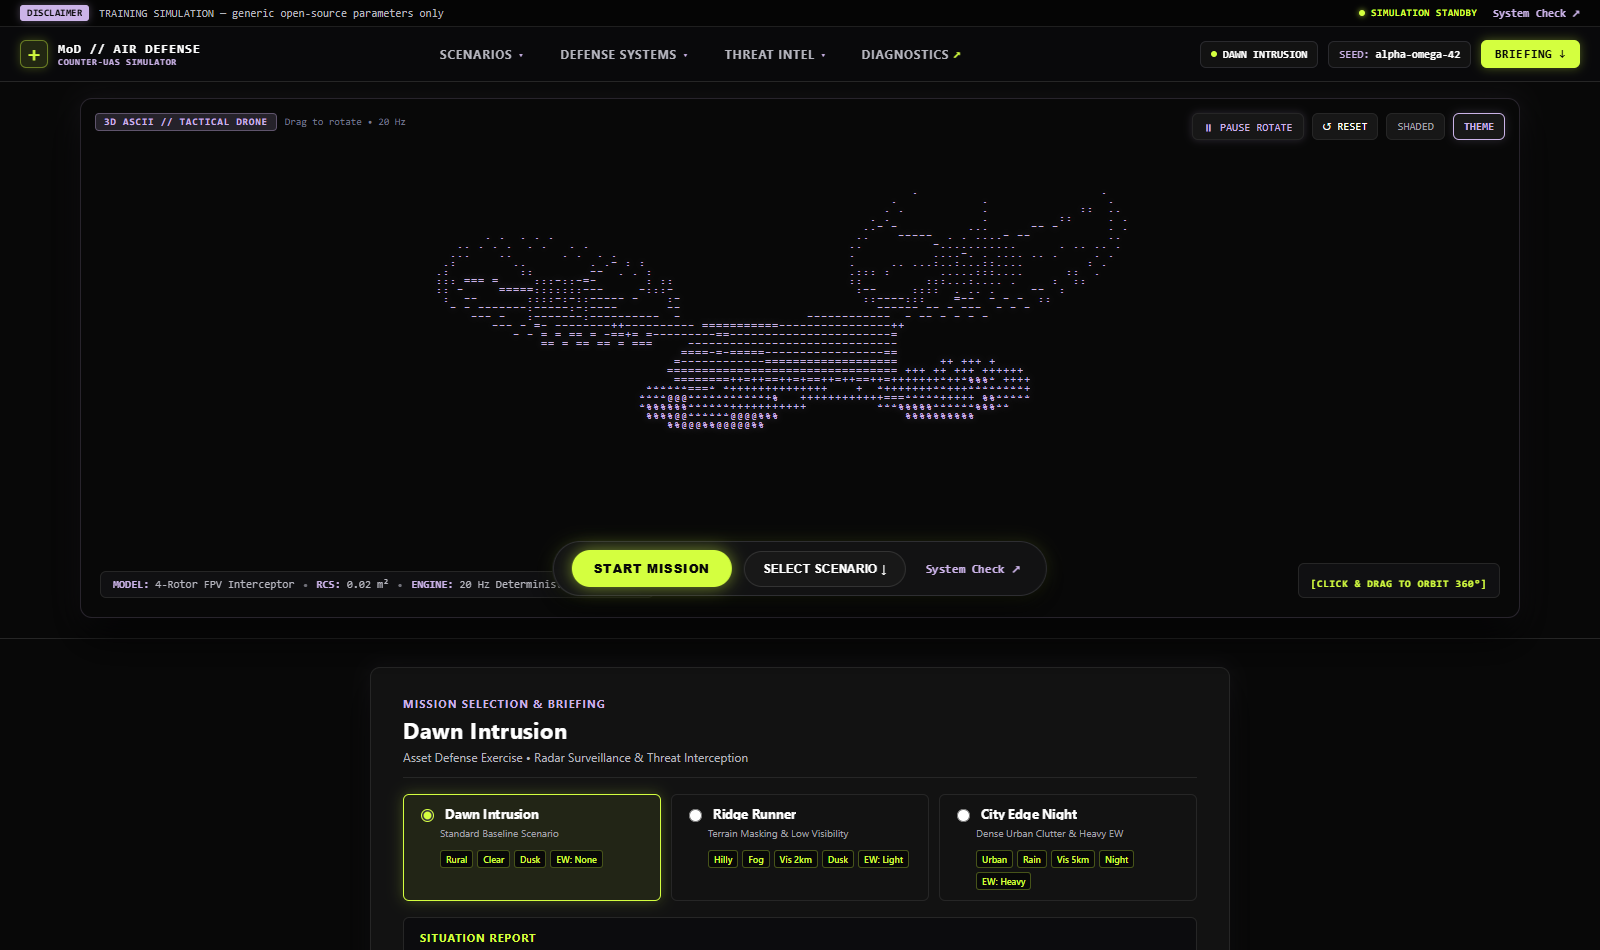
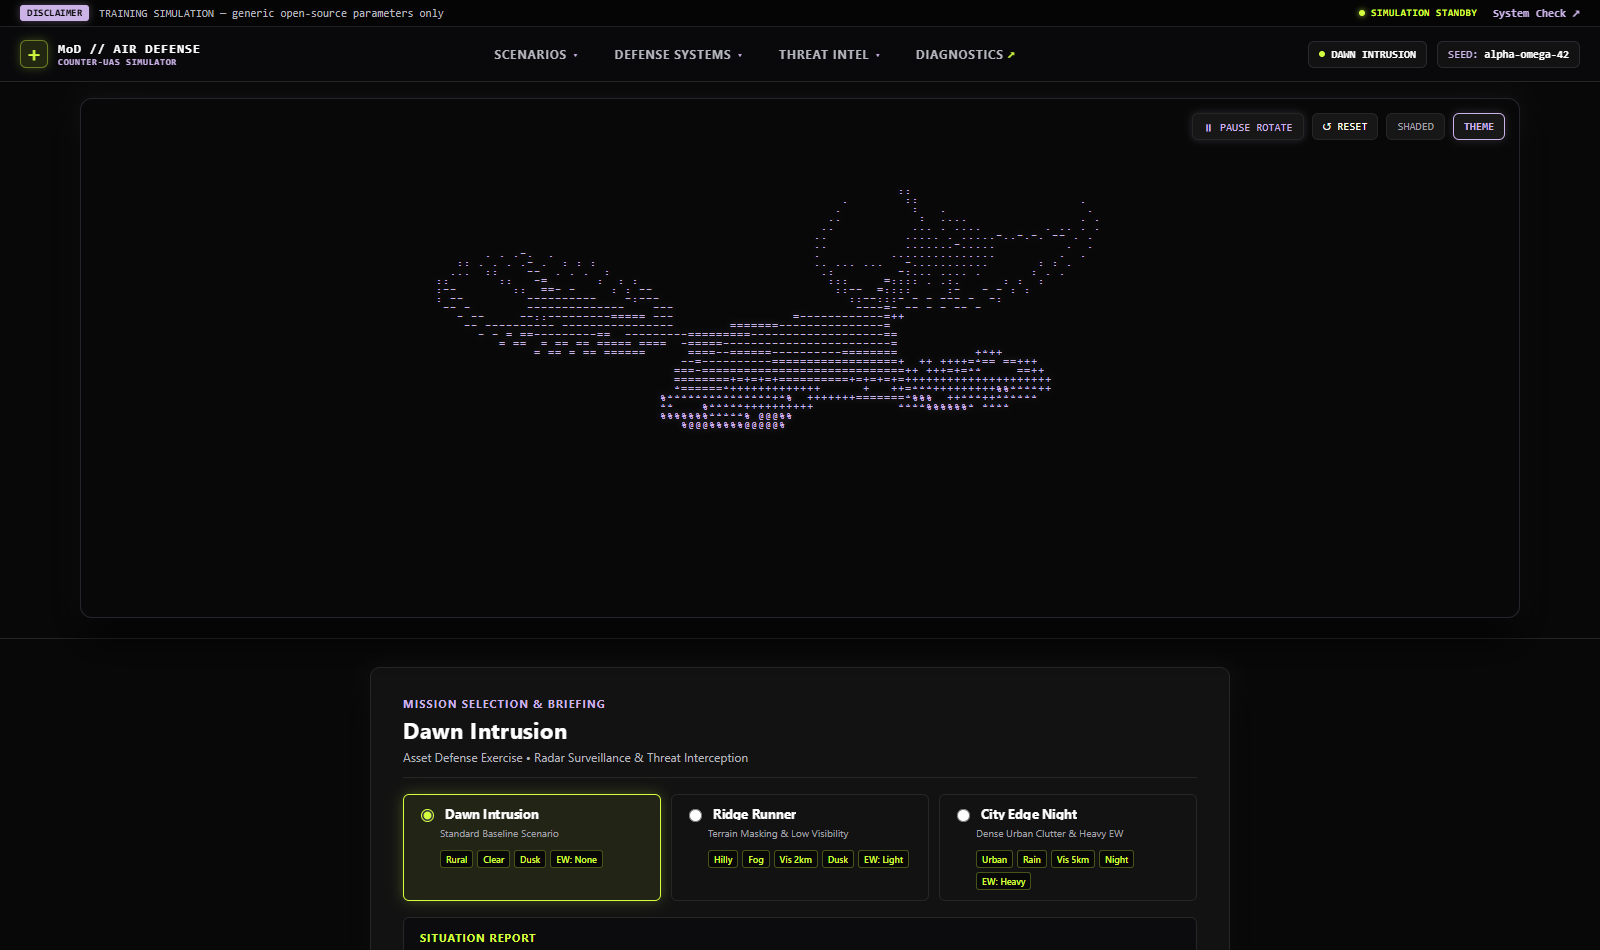
refactor(ui): streamline hero canvas and remove topbar briefing button

diff --git a/src/app/components/DroneHeroSection.tsx b/src/app/components/DroneHeroSection.tsx
@@ -1,16 +1,7 @@
 import React from 'react';
 import { DroneAsciiSimulation } from './DroneAsciiSimulation.js';
-import { TextRoll } from './TextRoll.js';
 
-export interface DroneHeroSectionProps {
-  onStartMission?: () => void;
-  onExploreScenarios?: () => void;
-}
-
-export function DroneHeroSection({
-  onStartMission,
-  onExploreScenarios,
-}: DroneHeroSectionProps): React.JSX.Element {
+export function DroneHeroSection(): React.JSX.Element {
   return (
     <section style={styles.heroSection}>
       {/* Full-Width 3D Tactical Drone ASCII Canvas Container */}
@@ -22,57 +13,6 @@ export function DroneHeroSection({
           autoRotate={true}
           rotationSpeed={0.012}
         />
-
-        {/* Floating Action Capsule (Center Bottom) */}
-        <div style={styles.floatingActionCapsule}>
-          {onStartMission && (
-            <button
-              id="hero-btn-start"
-              onClick={onStartMission}
-              style={styles.btnPrimary}
-            >
-              <TextRoll center duration={0.3} stagger={0.025}>
-                START MISSION
-              </TextRoll>
-            </button>
-          )}
-
-          {onExploreScenarios && (
-            <button
-              id="hero-btn-explore"
-              onClick={onExploreScenarios}
-              style={styles.btnSecondary}
-            >
-              <TextRoll center stagger={0.02}>
-                SELECT SCENARIO ↓
-              </TextRoll>
-            </button>
-          )}
-
-          <a href="#/check" style={styles.btnLink}>
-            <TextRoll stagger={0.02}>System Check ↗</TextRoll>
-          </a>
-        </div>
-
-        {/* Floating Bottom Left Telemetry HUD */}
-        <div style={styles.floatingBottomLeft}>
-          <span style={styles.hudStatItem}>
-            <strong style={styles.hudLabel}>MODEL:</strong> 4-Rotor FPV Interceptor
-          </span>
-          <span style={styles.hudDivider}>•</span>
-          <span style={styles.hudStatItem}>
-            <strong style={styles.hudLabel}>RCS:</strong> 0.02 m²
-          </span>
-          <span style={styles.hudDivider}>•</span>
-          <span style={styles.hudStatItem}>
-            <strong style={styles.hudLabel}>ENGINE:</strong> 20 Hz Deterministic Bit-Parity
-          </span>
-        </div>
-
-        {/* Floating Bottom Right Interactive Cue */}
-        <div style={styles.floatingBottomRight}>
-          <span style={styles.dragCueText}>[CLICK & DRAG TO ORBIT 360°]</span>
-        </div>
       </div>
     </section>
   );
@@ -97,99 +37,5 @@ const styles: Record<string, React.CSSProperties> = {
     borderRadius: '12px',
     overflow: 'hidden',
     boxShadow: '0 20px 40px rgba(0, 0, 0, 0.8), 0 0 25px rgba(203, 179, 232, 0.08)',
-  },
-  floatingActionCapsule: {
-    position: 'absolute',
-    bottom: '22px',
-    left: '50%',
-    transform: 'translateX(-50%)',
-    display: 'flex',
-    alignItems: 'center',
-    gap: '12px',
-    backgroundColor: 'rgba(18, 18, 20, 0.92)',
-    border: '1px solid #2e2e32',
-    borderRadius: '30px',
-    padding: '8px 18px',
-    backdropFilter: 'blur(16px)',
-    boxShadow: '0 10px 30px rgba(0, 0, 0, 0.7), 0 0 15px rgba(212, 255, 63, 0.15)',
-    zIndex: 20,
-    fontFamily: 'monospace',
-  },
-  btnPrimary: {
-    padding: '10px 22px',
-    backgroundColor: '#d4ff3f',
-    color: '#080808',
-    border: 'none',
-    borderRadius: '20px',
-    fontSize: '12px',
-    fontWeight: 800,
-    letterSpacing: '0.06em',
-    cursor: 'pointer',
-    boxShadow: '0 0 16px rgba(212, 255, 63, 0.5)',
-    transition: 'all 0.15s ease',
-  },
-  btnSecondary: {
-    padding: '10px 18px',
-    backgroundColor: '#181818',
-    color: '#ffffff',
-    border: '1px solid #333333',
-    borderRadius: '20px',
-    fontSize: '12px',
-    fontWeight: 600,
-    cursor: 'pointer',
-    transition: 'all 0.15s ease',
-  },
-  btnLink: {
-    color: '#cbb3e8',
-    fontSize: '12px',
-    textDecoration: 'none',
-    fontWeight: 600,
-    padding: '4px 8px',
-  },
-  floatingBottomLeft: {
-    position: 'absolute',
-    bottom: '20px',
-    left: '20px',
-    display: 'flex',
-    alignItems: 'center',
-    gap: '8px',
-    backgroundColor: 'rgba(18, 18, 20, 0.85)',
-    border: '1px solid #262626',
-    borderRadius: '6px',
-    padding: '6px 12px',
-    backdropFilter: 'blur(8px)',
-    fontSize: '11px',
-    fontFamily: 'monospace',
-    zIndex: 10,
-    pointerEvents: 'none',
-  },
-  hudStatItem: {
-    color: '#b5b5be',
-  },
-  hudLabel: {
-    color: '#cbb3e8',
-    fontWeight: 700,
-  },
-  hudDivider: {
-    color: '#71717a',
-  },
-  floatingBottomRight: {
-    position: 'absolute',
-    bottom: '20px',
-    right: '20px',
-    backgroundColor: 'rgba(18, 18, 20, 0.85)',
-    border: '1px solid #262626',
-    borderRadius: '6px',
-    padding: '6px 12px',
-    backdropFilter: 'blur(8px)',
-    zIndex: 10,
-    pointerEvents: 'none',
-  },
-  dragCueText: {
-    color: '#d4ff3f',
-    fontSize: '10px',
-    fontWeight: 700,
-    letterSpacing: '0.08em',
-    fontFamily: 'monospace',
   },
 };

diff --git a/src/app/components/DroneAsciiSimulation.tsx b/src/app/components/DroneAsciiSimulation.tsx
@@ -433,44 +433,6 @@ export function DroneAsciiSimulation({
         </button>
       </div>
 
-      {/* Top Left Badge */}
-      <div
-        style={{
-          position: 'absolute',
-          top: '14px',
-          left: '14px',
-          display: 'flex',
-          alignItems: 'center',
-          gap: '8px',
-          zIndex: 10,
-        }}
-      >
-        <span
-          style={{
-            backgroundColor: 'rgba(203, 179, 232, 0.15)',
-            border: '1px solid rgba(203, 179, 232, 0.35)',
-            color: activeColor,
-            borderRadius: '4px',
-            padding: '2px 8px',
-            fontSize: '10px',
-            fontWeight: 700,
-            fontFamily: 'monospace',
-            letterSpacing: '0.08em',
-          }}
-        >
-          3D ASCII // TACTICAL DRONE
-        </span>
-        <span
-          style={{
-            color: '#767a8f',
-            fontSize: '10px',
-            fontFamily: 'monospace',
-          }}
-        >
-          Drag to rotate • 20 Hz
-        </span>
-      </div>
-
       {/* ASCII Output Display */}
       <pre
         style={{

diff --git a/src/app/console/MissionSetup.tsx b/src/app/console/MissionSetup.tsx
@@ -70,13 +70,7 @@ export function MissionSetup({ onStart }: MissionSetupProps): React.JSX.Element 
   return (
     <div style={styles.container}>
       {/* Skiper14-Inspired 3D ASCII Drone Hero Section */}
-      <DroneHeroSection
-        onStartMission={() => onStart(seedInput.trim() || 's1', selectedScenario)}
-        onExploreScenarios={() => {
-          const el = document.getElementById('scenario-selection-card');
-          if (el) el.scrollIntoView({ behavior: 'smooth' });
-        }}
-      />
+      <DroneHeroSection />
 
       <div id="scenario-selection-card" style={styles.card}>
         <div style={styles.header}>

diff --git a/src/app/console/TopBar.tsx b/src/app/console/TopBar.tsx
@@ -372,14 +372,6 @@ export function TopBar({
                 <span style={styles.seedLabelText}>SEED:</span>
                 <span style={styles.seedValueText}>{seed}</span>
               </div>
-
-              <button
-                onClick={scrollToBriefing}
-                style={styles.btnNavCta}
-                title="Scroll to Mission Setup"
-              >
-                <TextRoll center stagger={0.02}>BRIEFING ↓</TextRoll>
-              </button>
             </div>
           ) : (
             <div style={styles.runningActionCluster}>
